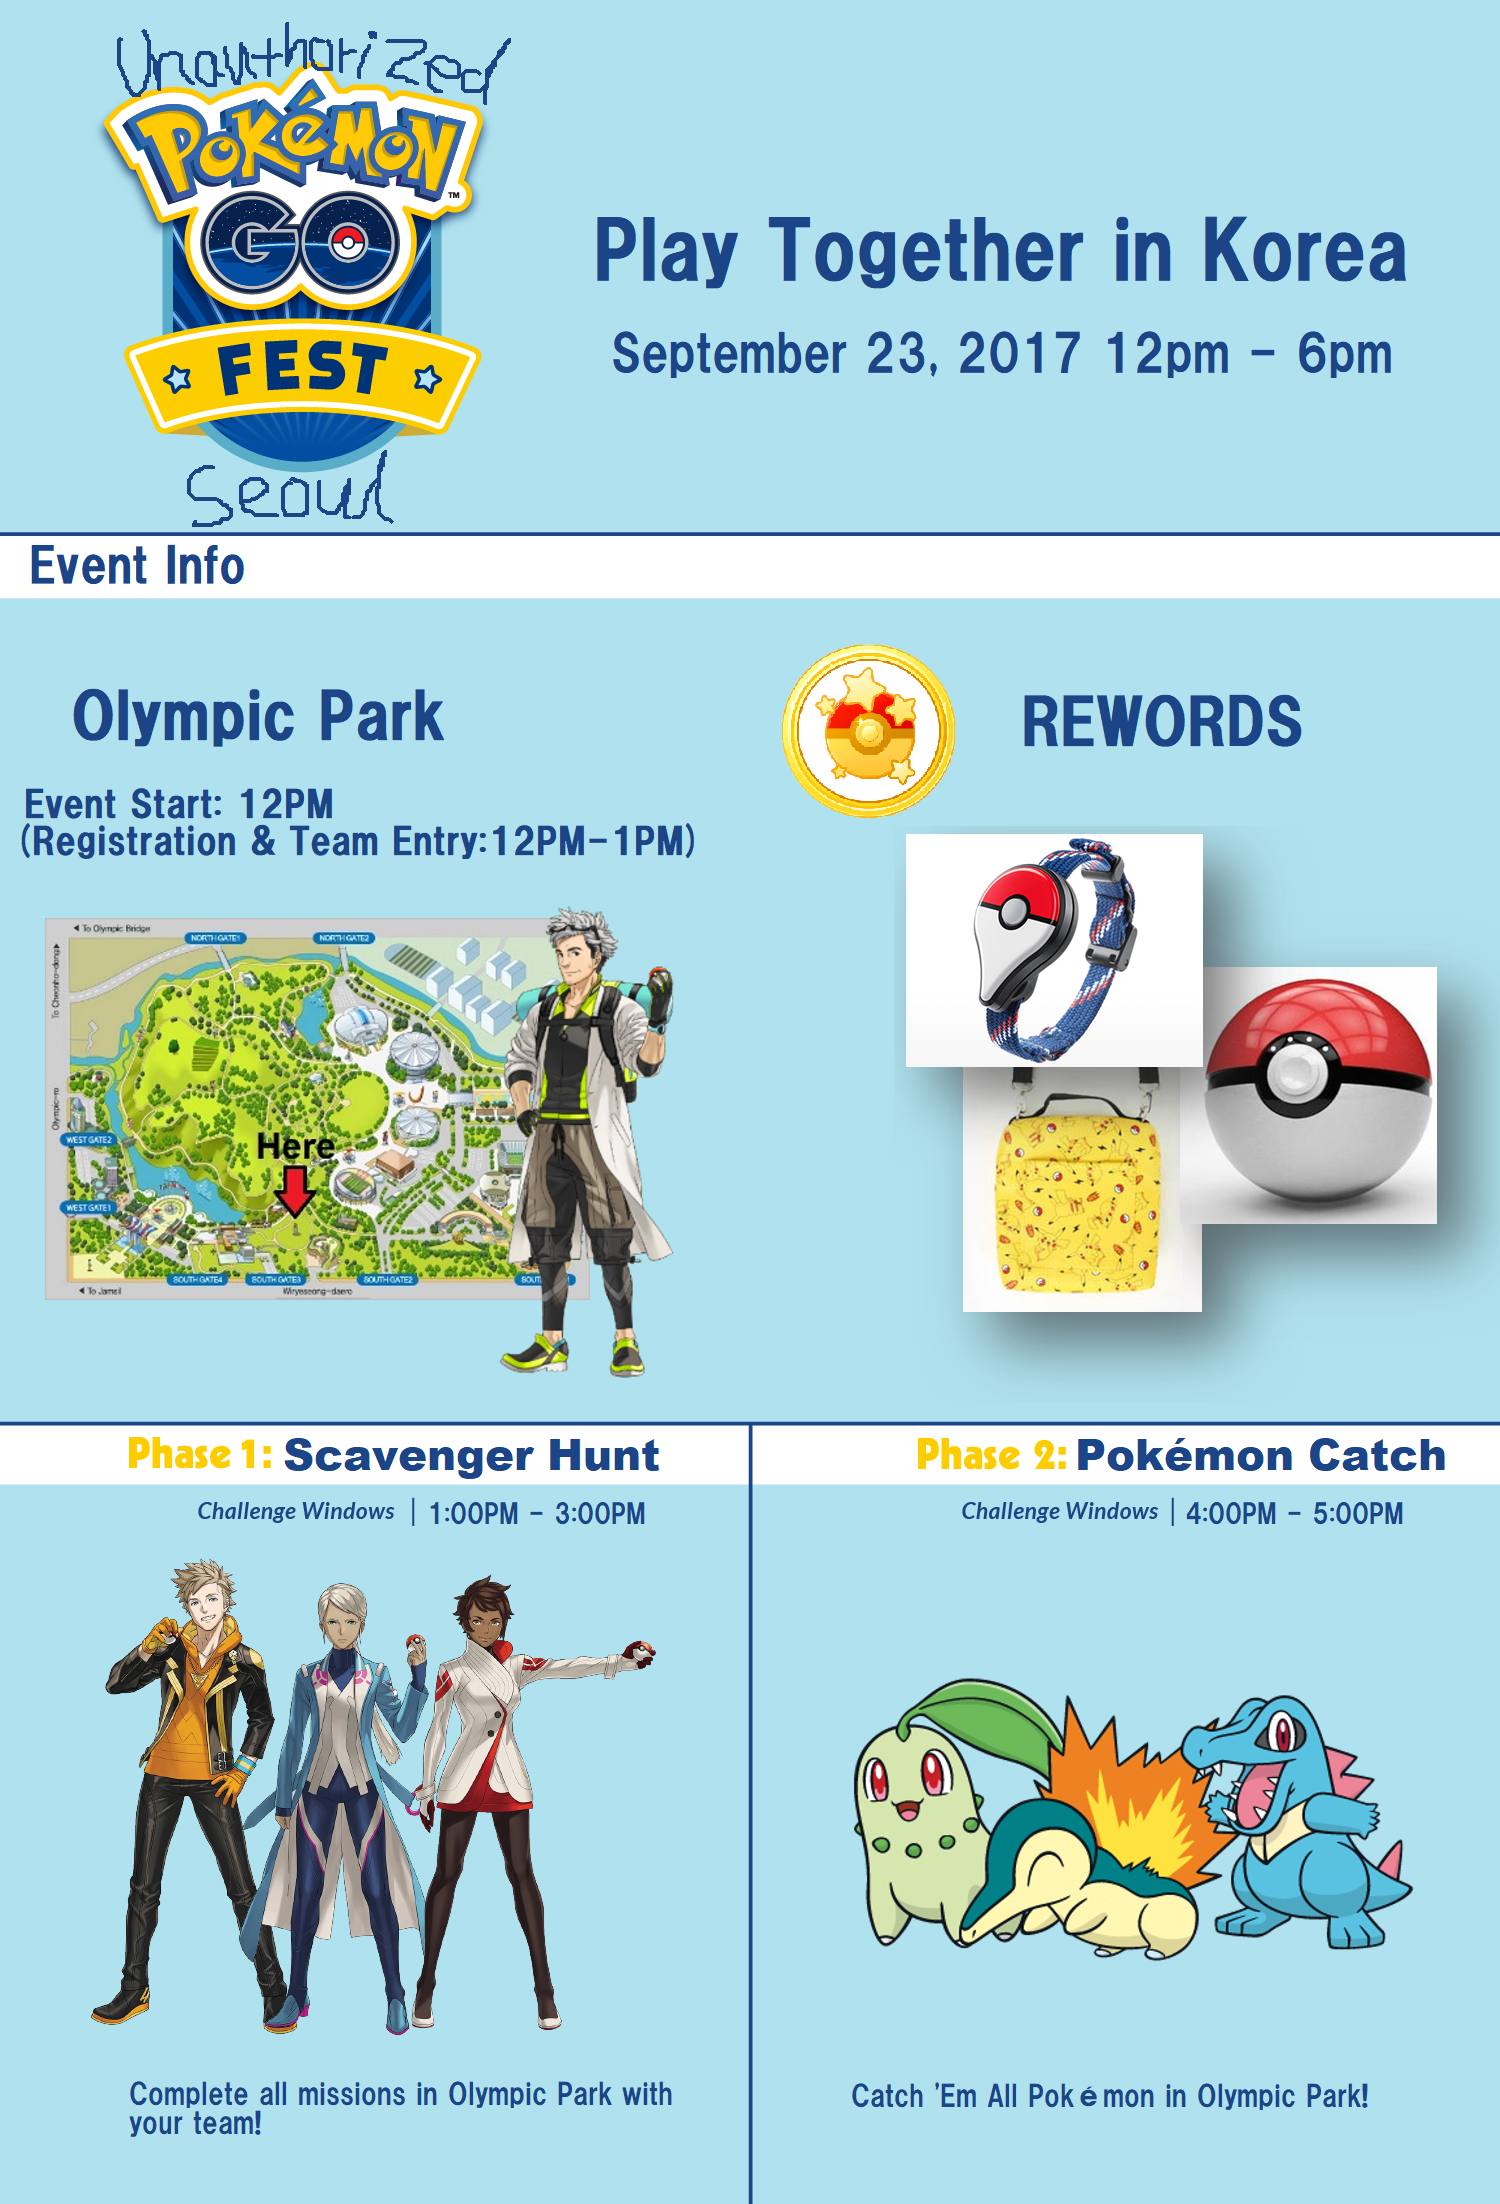
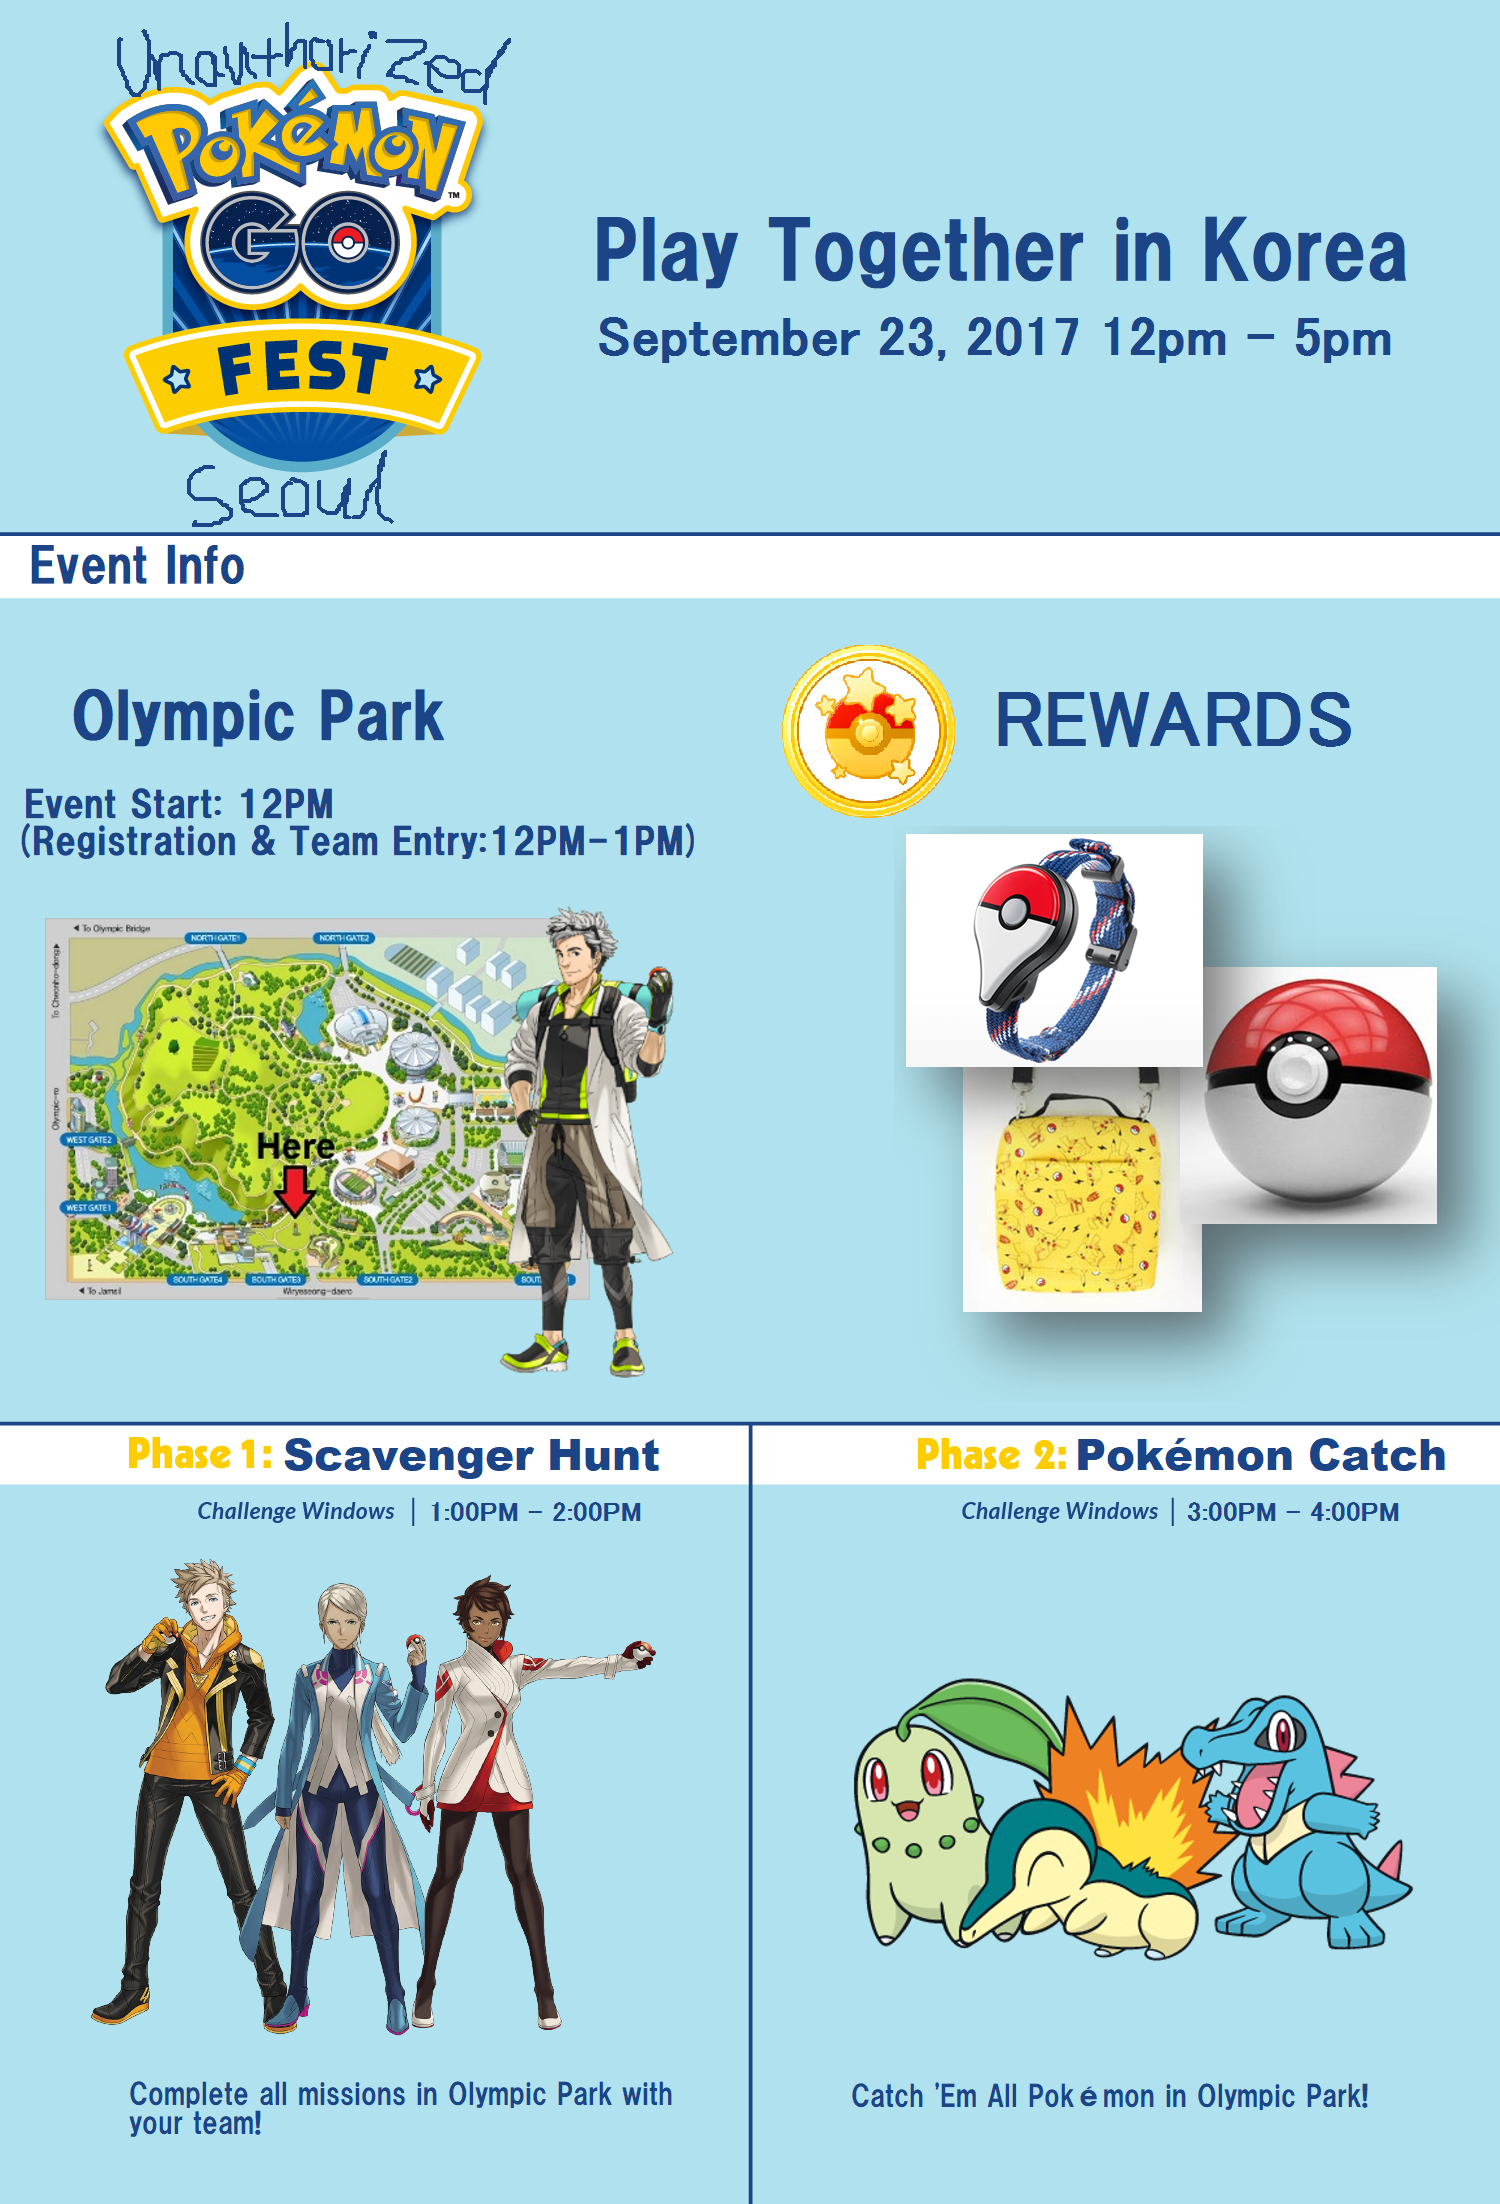
Add files via upload
fixed minor issues

diff --git a/index.html b/index.html
@@ -101,19 +101,19 @@
 <br>Reception: Register participant and make a team for Scanvenger Hunt.</p>
 </li>
 <li>
-<p><strong>1:00PM - 3:00PM</strong>
+<p><strong>1:00PM - 2:00PM</strong>
 <br>[Phase.1 Scavenger Hunt]</p>
 </li>
 <li>
-<p><strong>3:00PM - 4:00PM</strong>
+<p><strong>2:00PM - 3:00PM</strong>
 <br>Break Time & Collect Results in Phase.1</p>
 </li>
 <li>
-<p><strong>4:00PM - 5:00PM</strong>
+<p><strong>3:00PM - 4:00PM</strong>
 <br>[Phase.2 Pokémon Catch]</p>
 </li>
 <li>
-<p><strong>5:00PM - 6:00PM</strong>
+<p><strong>4:00PM - 5:00PM</strong>
 <br>Collect Results in Phase.2 & Awards Ceremony</p>
 </li>
 </ul>
